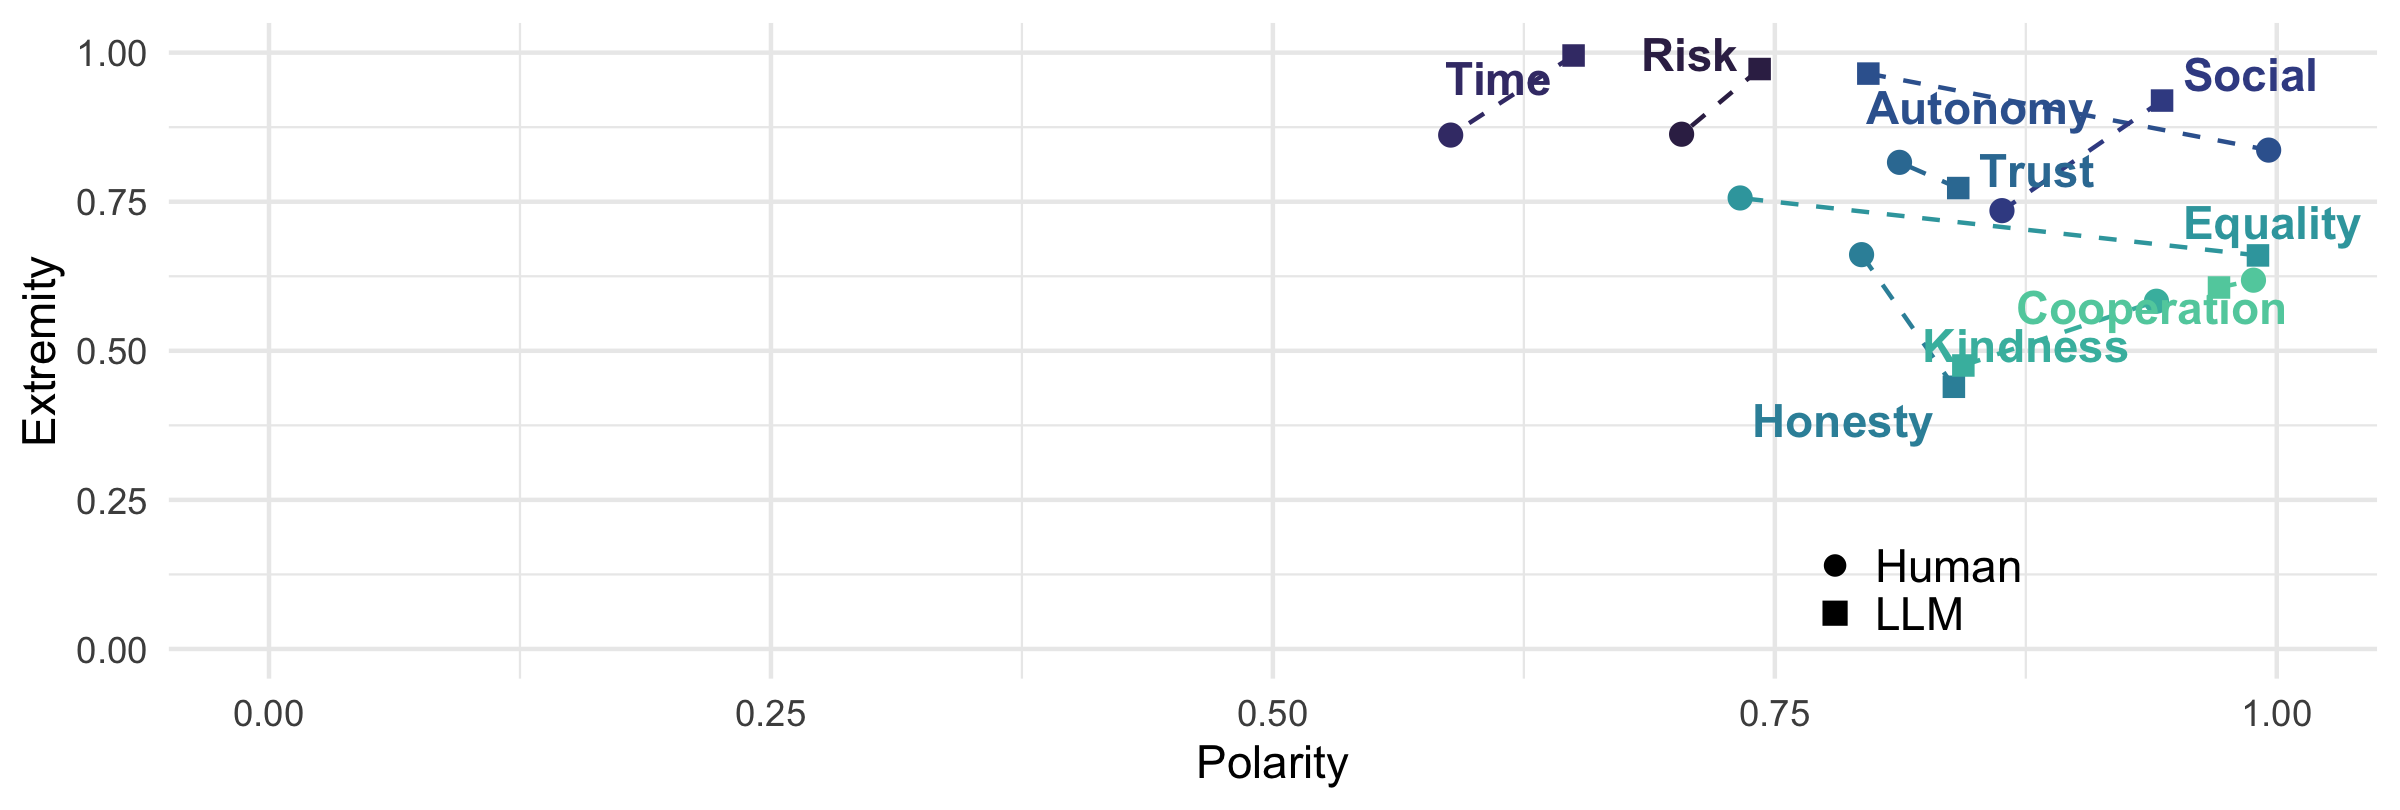
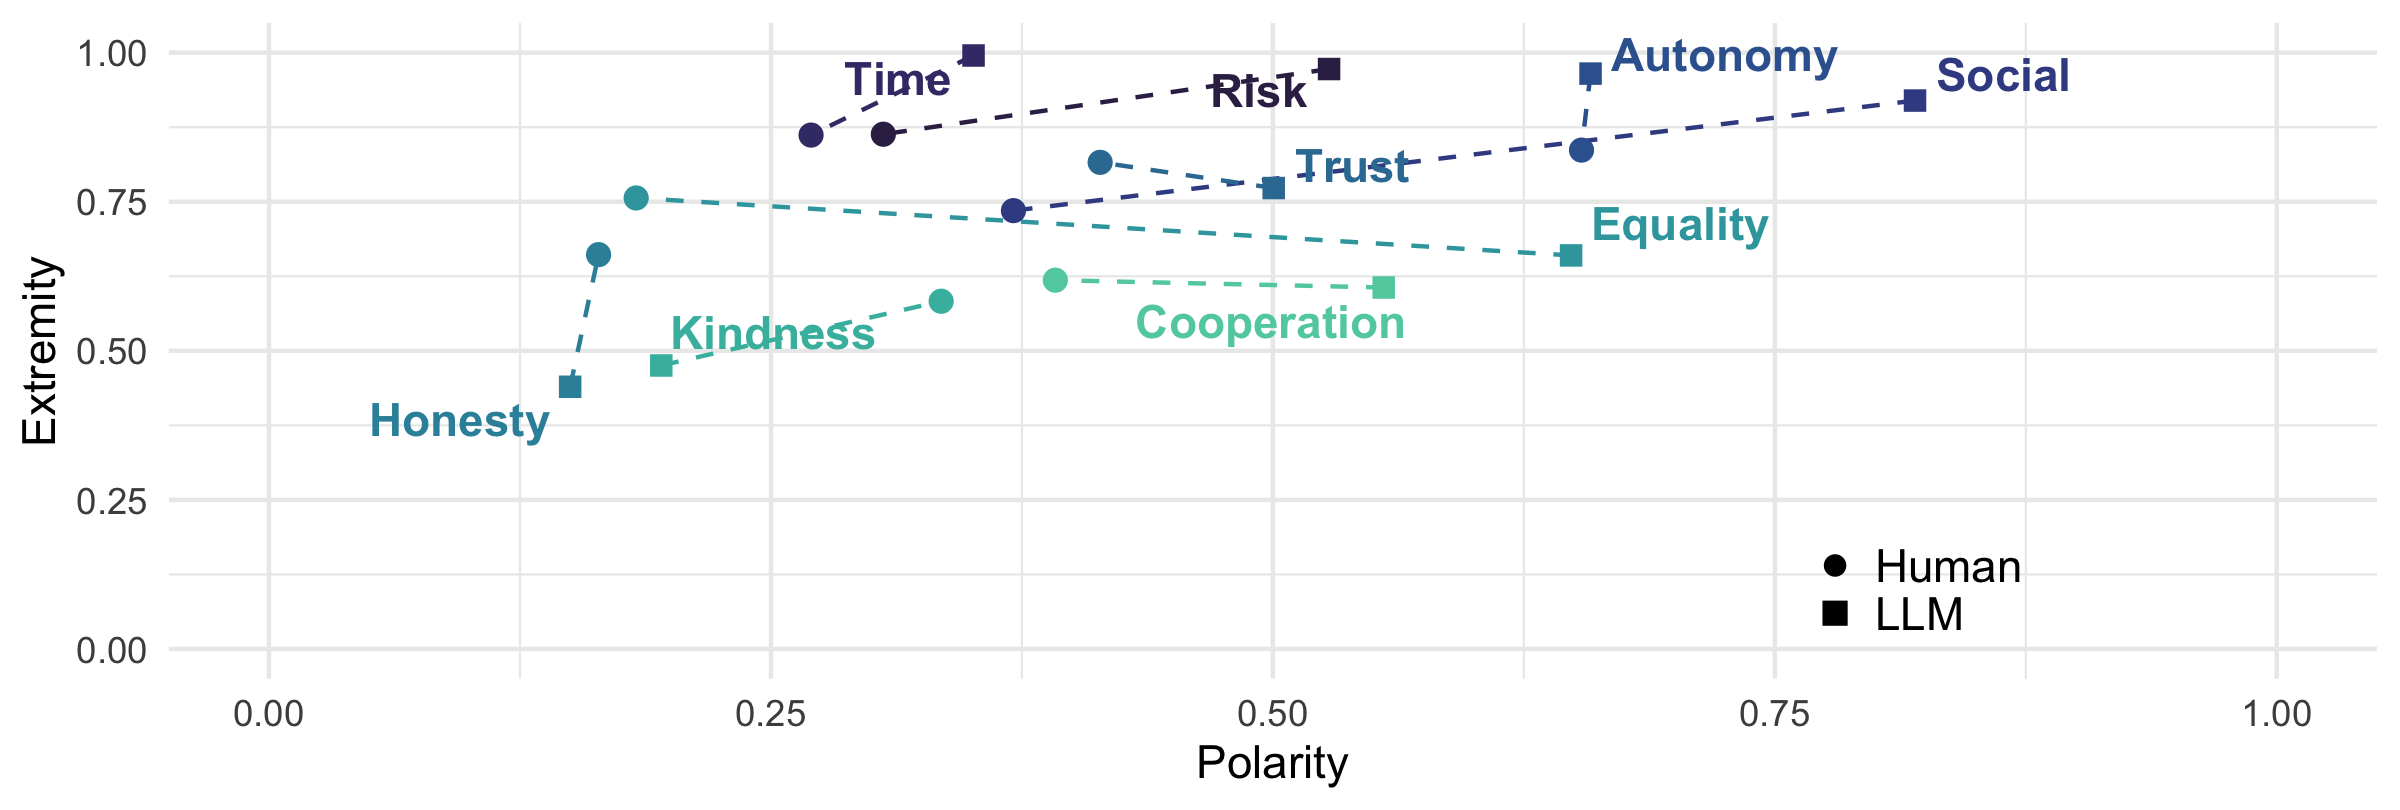
add prompts

diff --git a/docs/analysis.md b/docs/analysis.md
@@ -30,9 +30,9 @@
 
 Model-based dimension analyses use items with model prescriptivity > 3. Human-based dimension analyses select items whose prescriptivity averaged over raters and conditions exceeds 3. Thus the human and model subsets need not coincide.
 
-`mid` is the plotted “Extremity”: `1 - mean(value == 3)`. `polarity` is `1 - abs(mean(value - 3))/2`. The latter measures closeness of the mean to neutral, not the coexistence of conflicting prescriptions. Entirely neutral and symmetrically opposing ratings can both yield polarity 1.
+`mid` is the plotted “Extremity”: `1 - mean(value == 3)`. `polarity` is `2 * min(mean(value %in% c(1, 2)), mean(value %in% c(4, 5)))`: twice the smaller proportion of ratings at the two opposing poles. Entirely neutral ratings yield 0; equally frequent opposing poles with no neutral ratings yield 1. This uses the alternative formula commented in the saved original script, confirmed by the author as the formula used for the paper.
 
-The human polarity/extremity calculation pools the two individual raters and their within-condition average, across both conditions. This preserves the original figure, but the inclusion of averaged ratings affects the frequency of exact-neutral responses. Human-model alignment compares averaged human ratings with the model, whereas human-human alignment compares individuals.
+The human polarity/extremity calculation pools the two individual raters and their within-condition average, across both conditions. The inclusion of averaged ratings affects the frequency of exact-neutral responses. Polarity uses exact membership in {1, 2} and {4, 5}, so fractional averages are retained in the denominator but count toward neither pole. Human-model alignment compares averaged human ratings with the model, whereas human-human alignment compares individuals.
 
 Source summaries retain source-row multiplicity. The 77 records associated with the reserved empty-entry ID have no model rating and count as non-prescriptive in the original source prescriptivity denominator. They do not enter the overall corpus or prescriptive dimension analyses. Records with missing source codes are excluded from source summaries.
 
